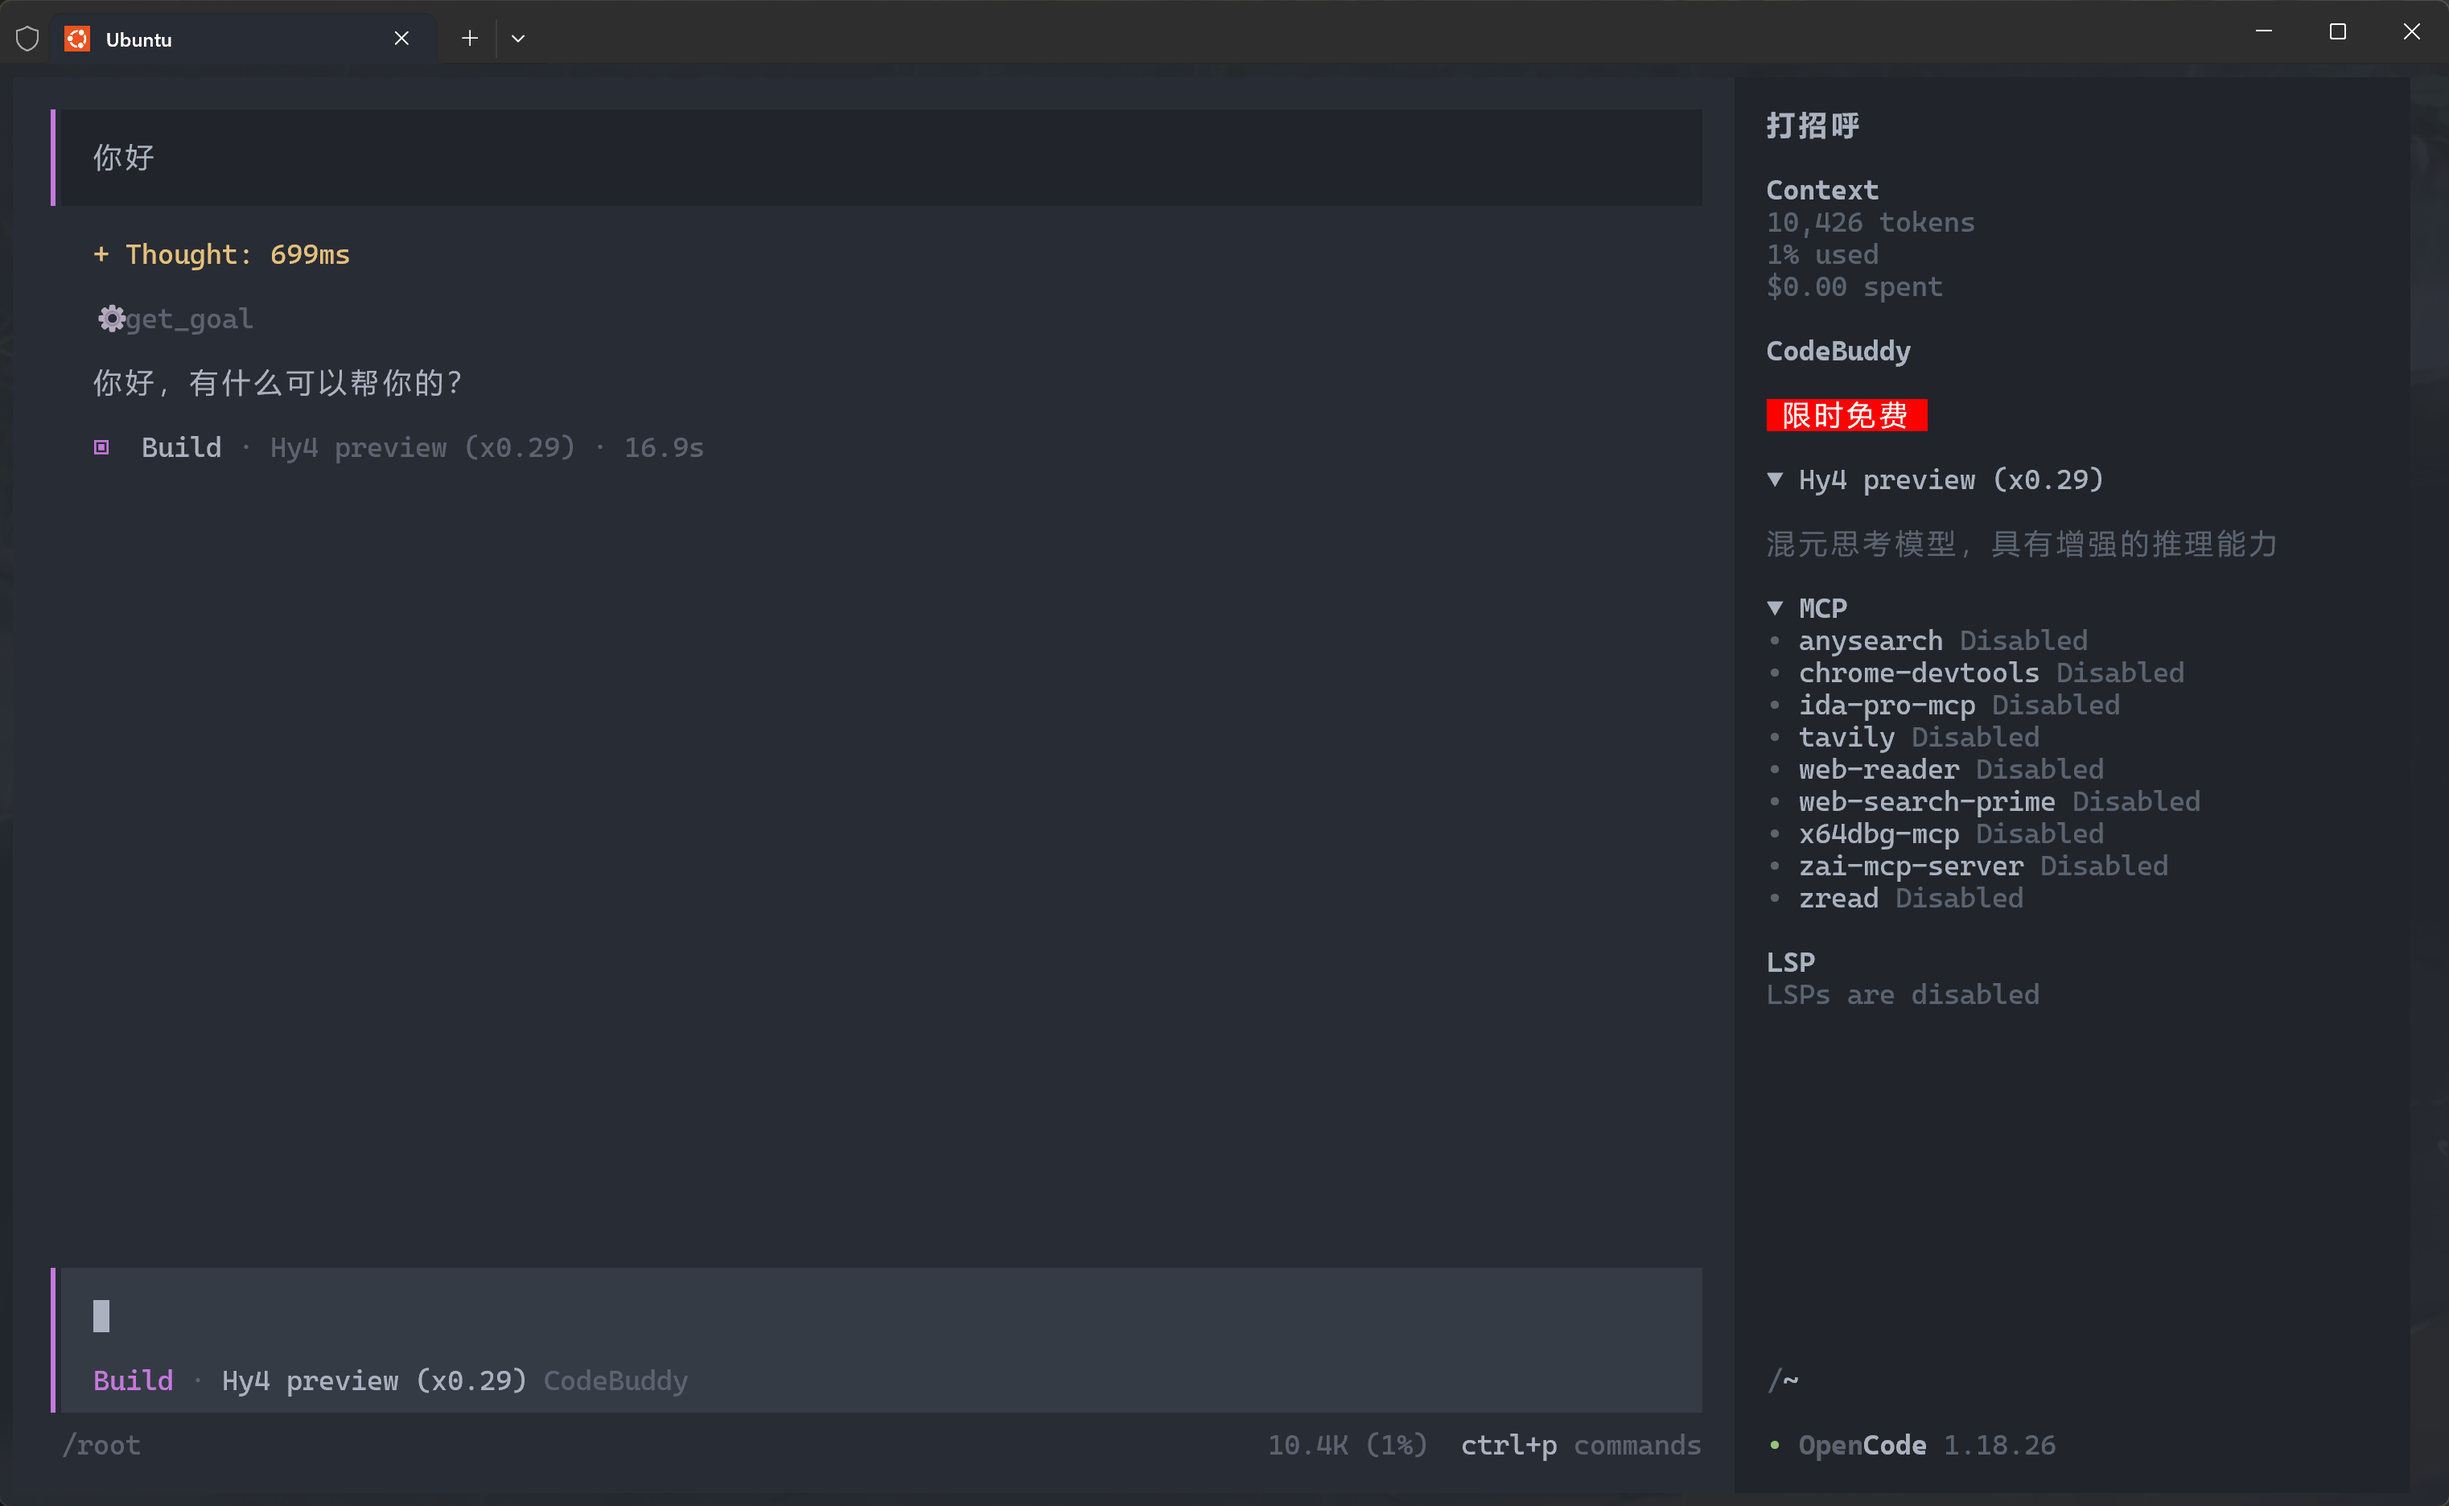
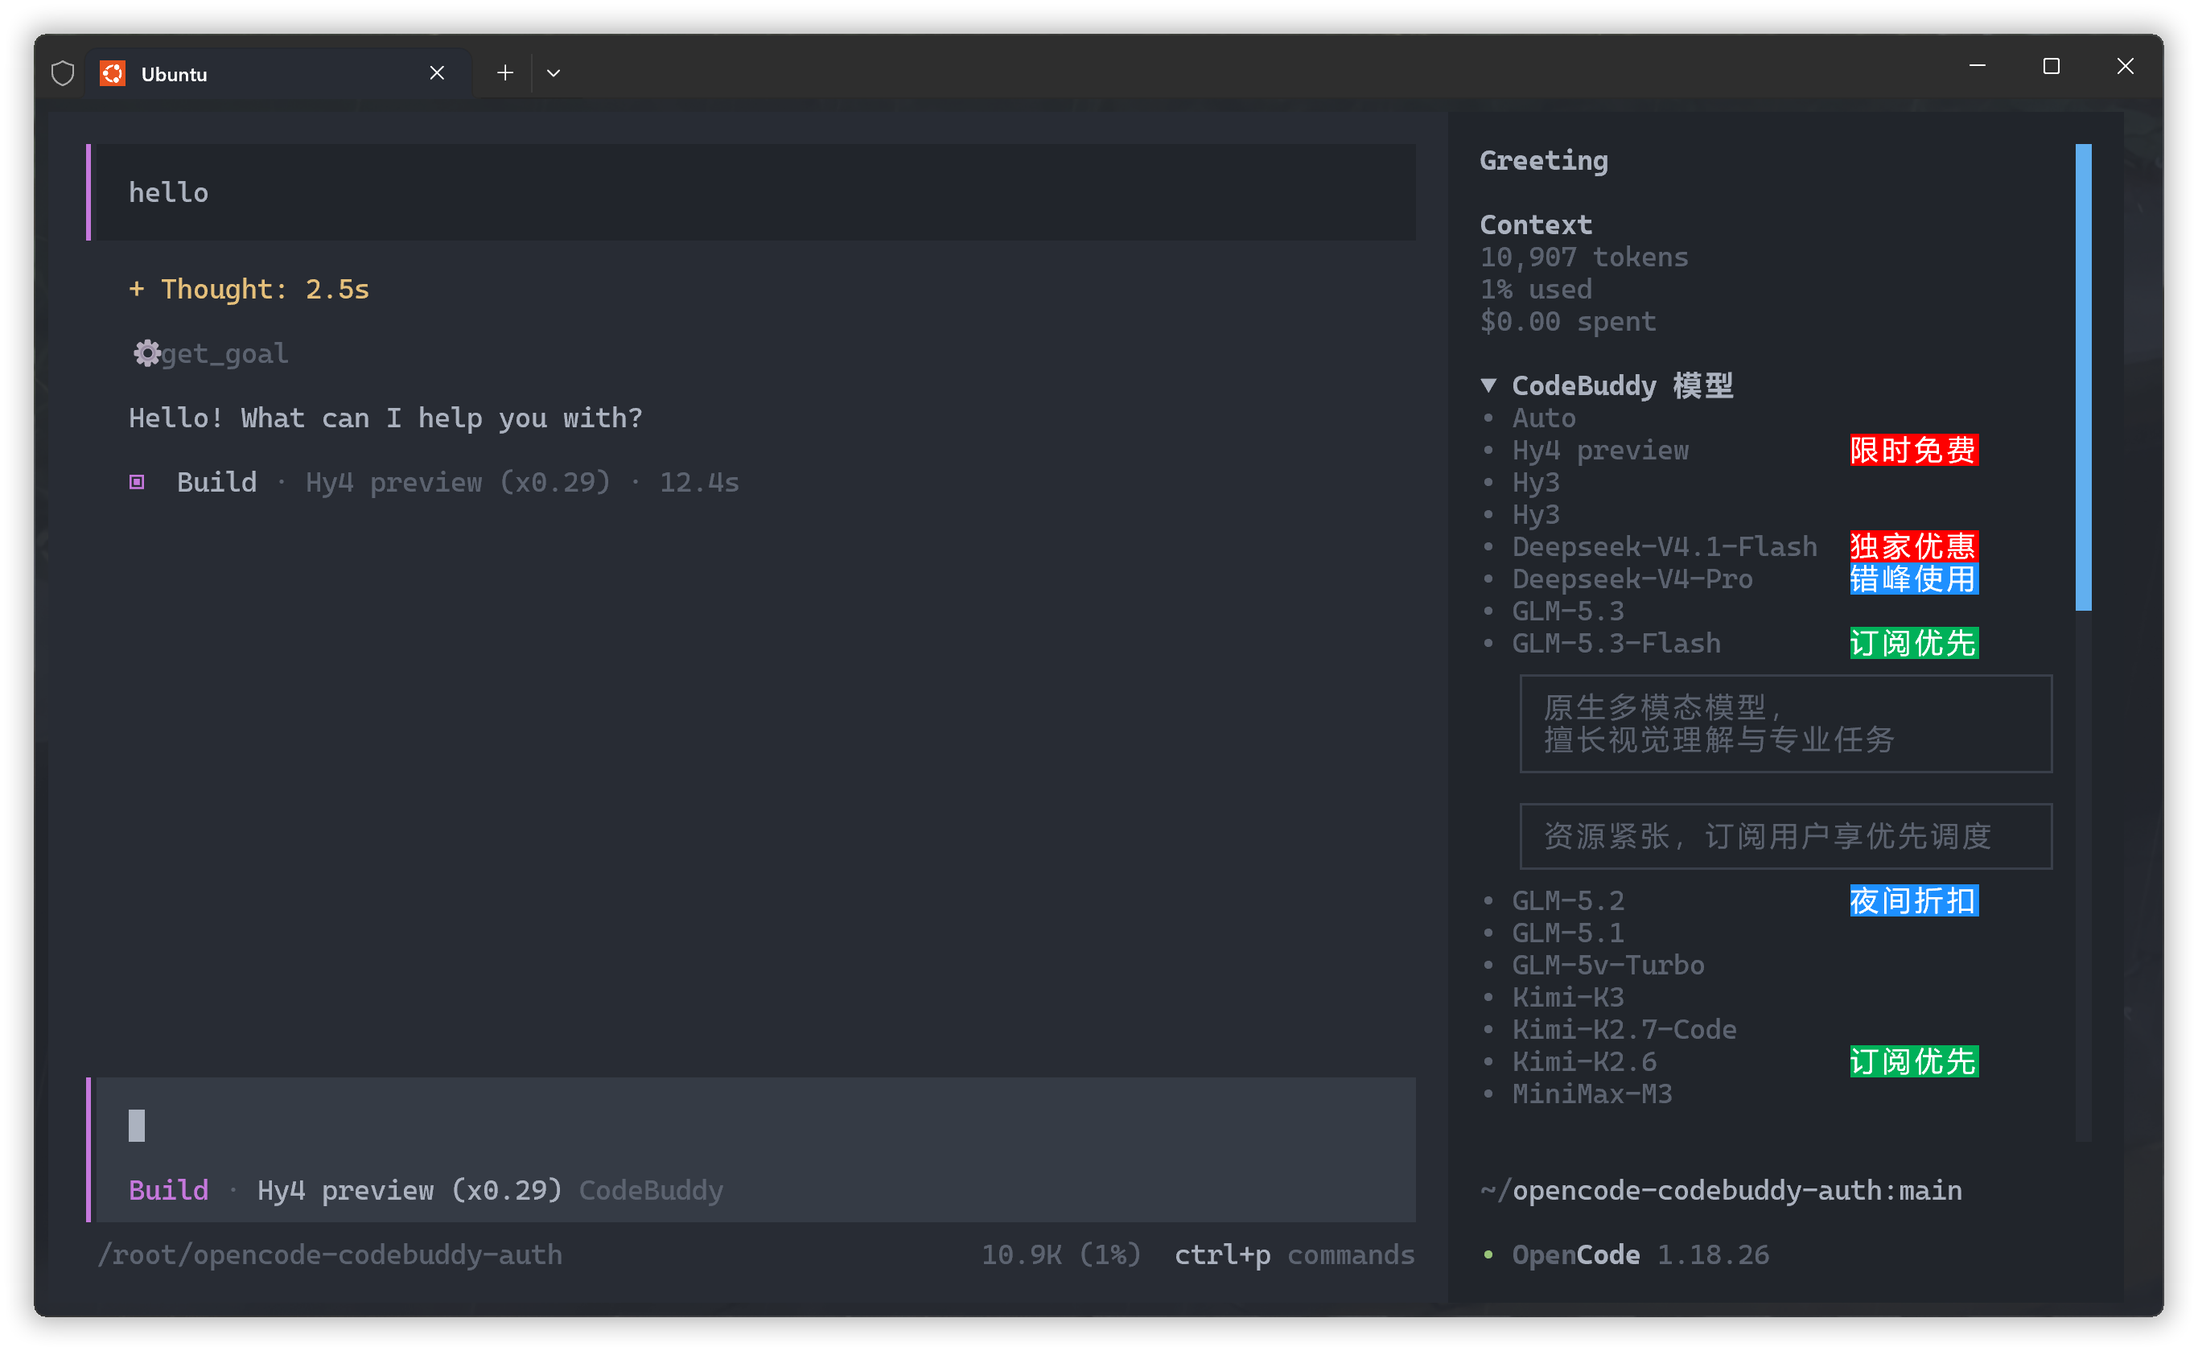
docs: update TUI screenshot

diff --git a/README.md b/README.md
@@ -2,6 +2,10 @@
 
 OpenCode 插件，用于 CodeBuddy (IOA) 认证。通过浏览器 OAuth 登录后，可在 OpenCode CLI 中使用 CodeBuddy 的对话模型。支持自动从 `/v3/config` 动态获取可用模型列表，支持国内版和国际版切换。
 
+<p align="center">
+  <img src="images/tui-sidebar.png" width="70%" alt="OpenCode 中的 CodeBuddy TUI 侧边栏" />
+</p>
+
 ## 安装
 
 在 `opencode.json` 中添加插件即可，三种配置方式任选其一：
